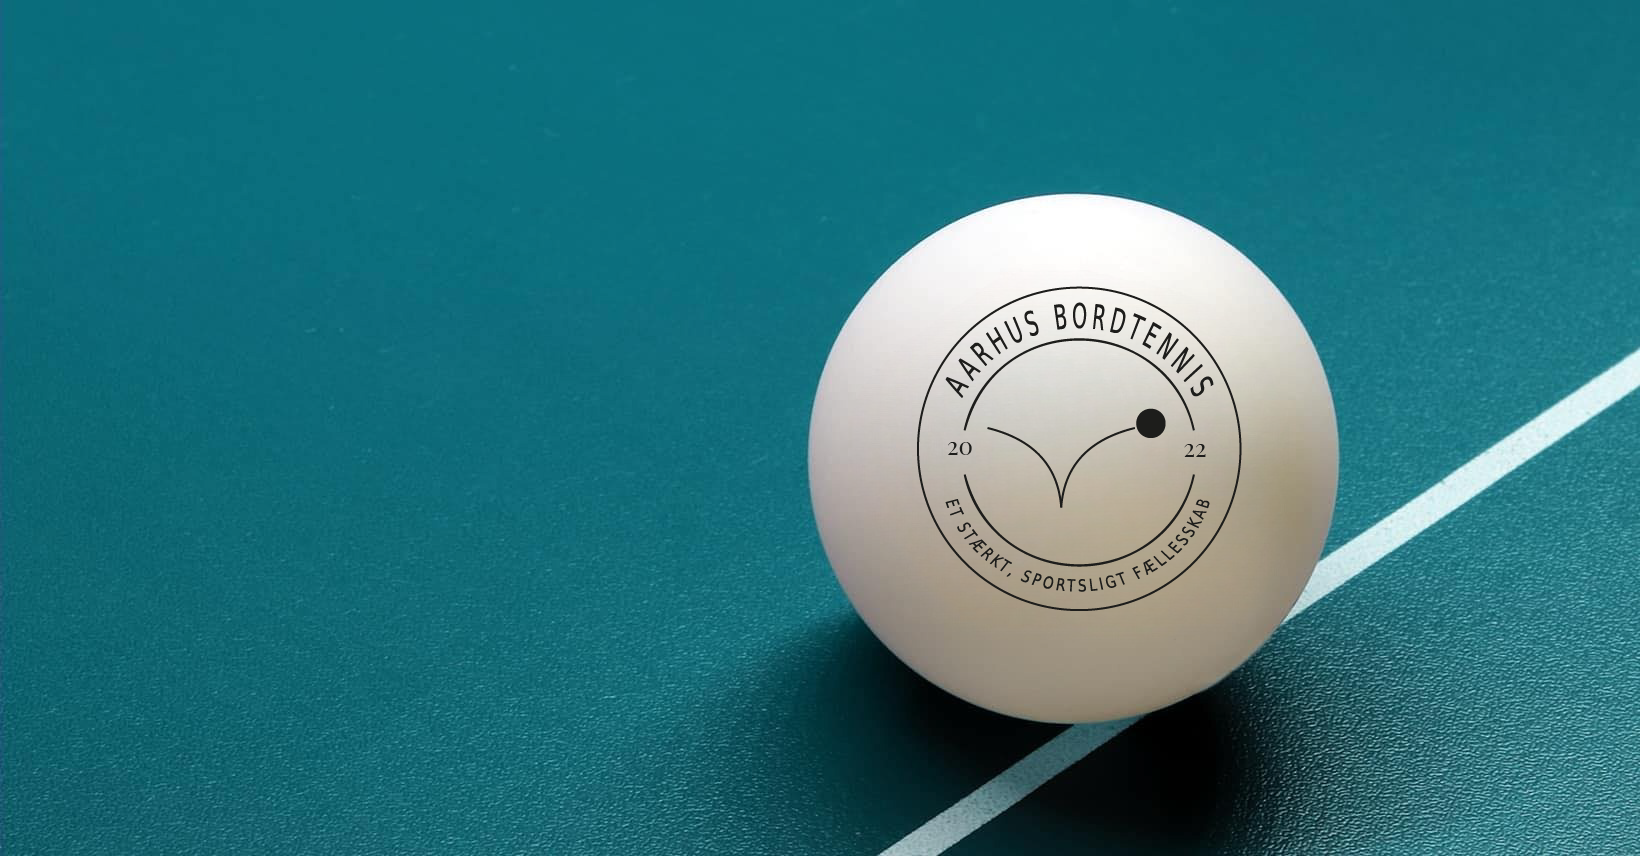
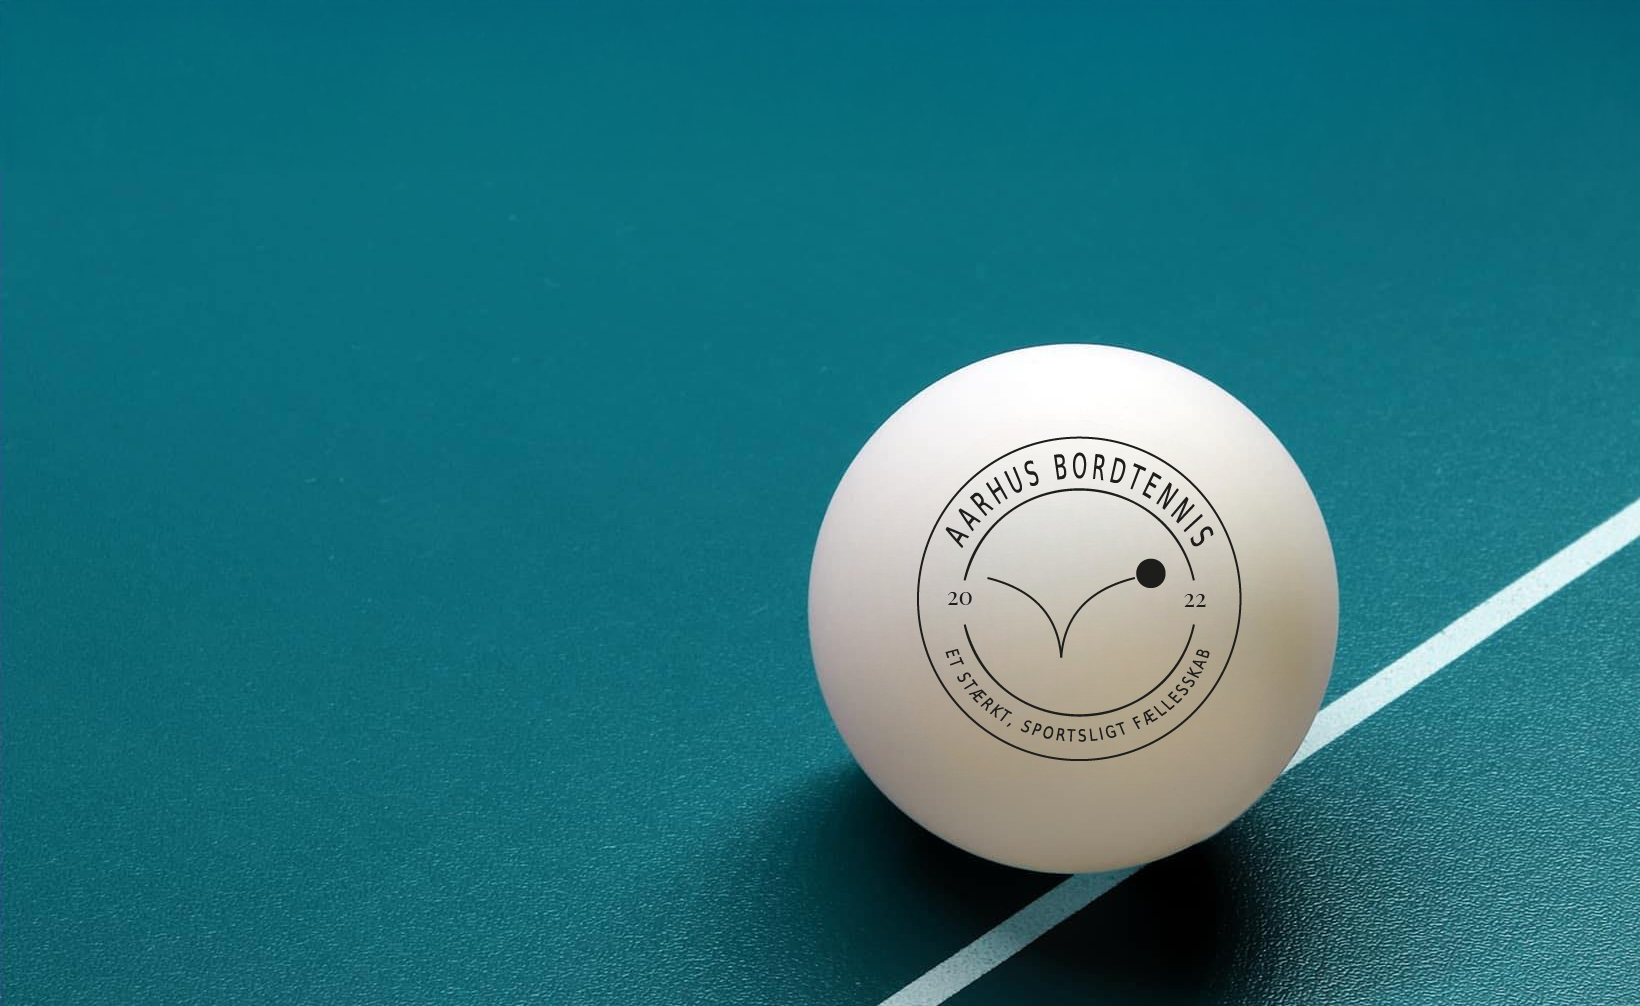
resp
yes

Changed region(s): [[0.2177, 0.2126, 1.0, 1.0], [0.5287, 0.972, 0.5598, 1.0]]

diff --git a/Res web/css/css.css b/Res web/css/css.css
@@ -1,13 +1,23 @@
+* {
+    font-family: "dejavu-sans-condensed", sans-serif;
+    font-weight: 400;
+    font-style: normal;
+    color: #ffff;
+}
+
 header{
     max-width: 100%; 
     position: sticky;
+    top: 0;
 }
-
+header img{
+    width: 50%;
+}
 #bigphoto{
     width: 100%;
+    margin-top: -380px;
     
 }
-
 
 body {
     font-family: Arial, Helvetica, sans-serif;
@@ -21,6 +31,7 @@ body {
     background-color: transparent;
     display: flex;
     justify-content: space-evenly;
+    align-items: center;
   }
   
   .navbar a {
@@ -76,4 +87,37 @@ body {
   
   .dropdown:hover .dropdown-content {
     display: block;
+  }
+
+
+  footer{
+    background-color: #017e8c;
+    display: flex;
+    align-content: baseline;
+    padding: 5%;
+  }
+
+
+  .footertekst{
+    width: 70%;
+  }
+
+  .facebooklogo{
+    width: 30%;
+  }
+
+  footer img{
+    width: 40%;
+
+  }
+
+  .sponsor{
+    background-color: #c37862;
+    display: flex;
+    justify-content: space-between;
+  }
+
+  .sponsor img{
+    width: auto;
+    height: 125px;
   }

diff --git a/Res web/index.html b/Res web/index.html
@@ -2,6 +2,7 @@
 <html lang="da">
     <link rel="stylesheet" href="css/css.css">
 <head>
+    <link rel="stylesheet" href="https://use.typekit.net/gkz8zog.css">
     <meta charset="UTF-8">
     <meta name="viewport" content="width=device-width, initial-scale=1.0">
     <title>Aarhus Bordtennis</title>
@@ -48,9 +49,19 @@
 
 
 
-
+<aside class="sponsor">Sponsorer
+    <img src="/images/jtlogo.png" alt="jtlogo">
+    <img src="/images/logo3.webp" alt="logo3">
+    <img src="/images/tømerlogo.jpg" alt="tomrer">
+    <img src="images/btex.jpg" alt="btex">
+</aside>
     <footer>
-
+    <div class="footertekst">
+<h2>Find os her:</h2>
+<p>Ellehøjskolen<br>Jernaldervej 5, 8210 Aarhus V</p>
+<p>Følg med i de seneste nyheder på vores facebookside</p>
+</div>
+<div class="facebooklogo"><img src="/images/fb.svg" alt="facebooklogo"></div>
     </footer>
 </body>
 </html>
